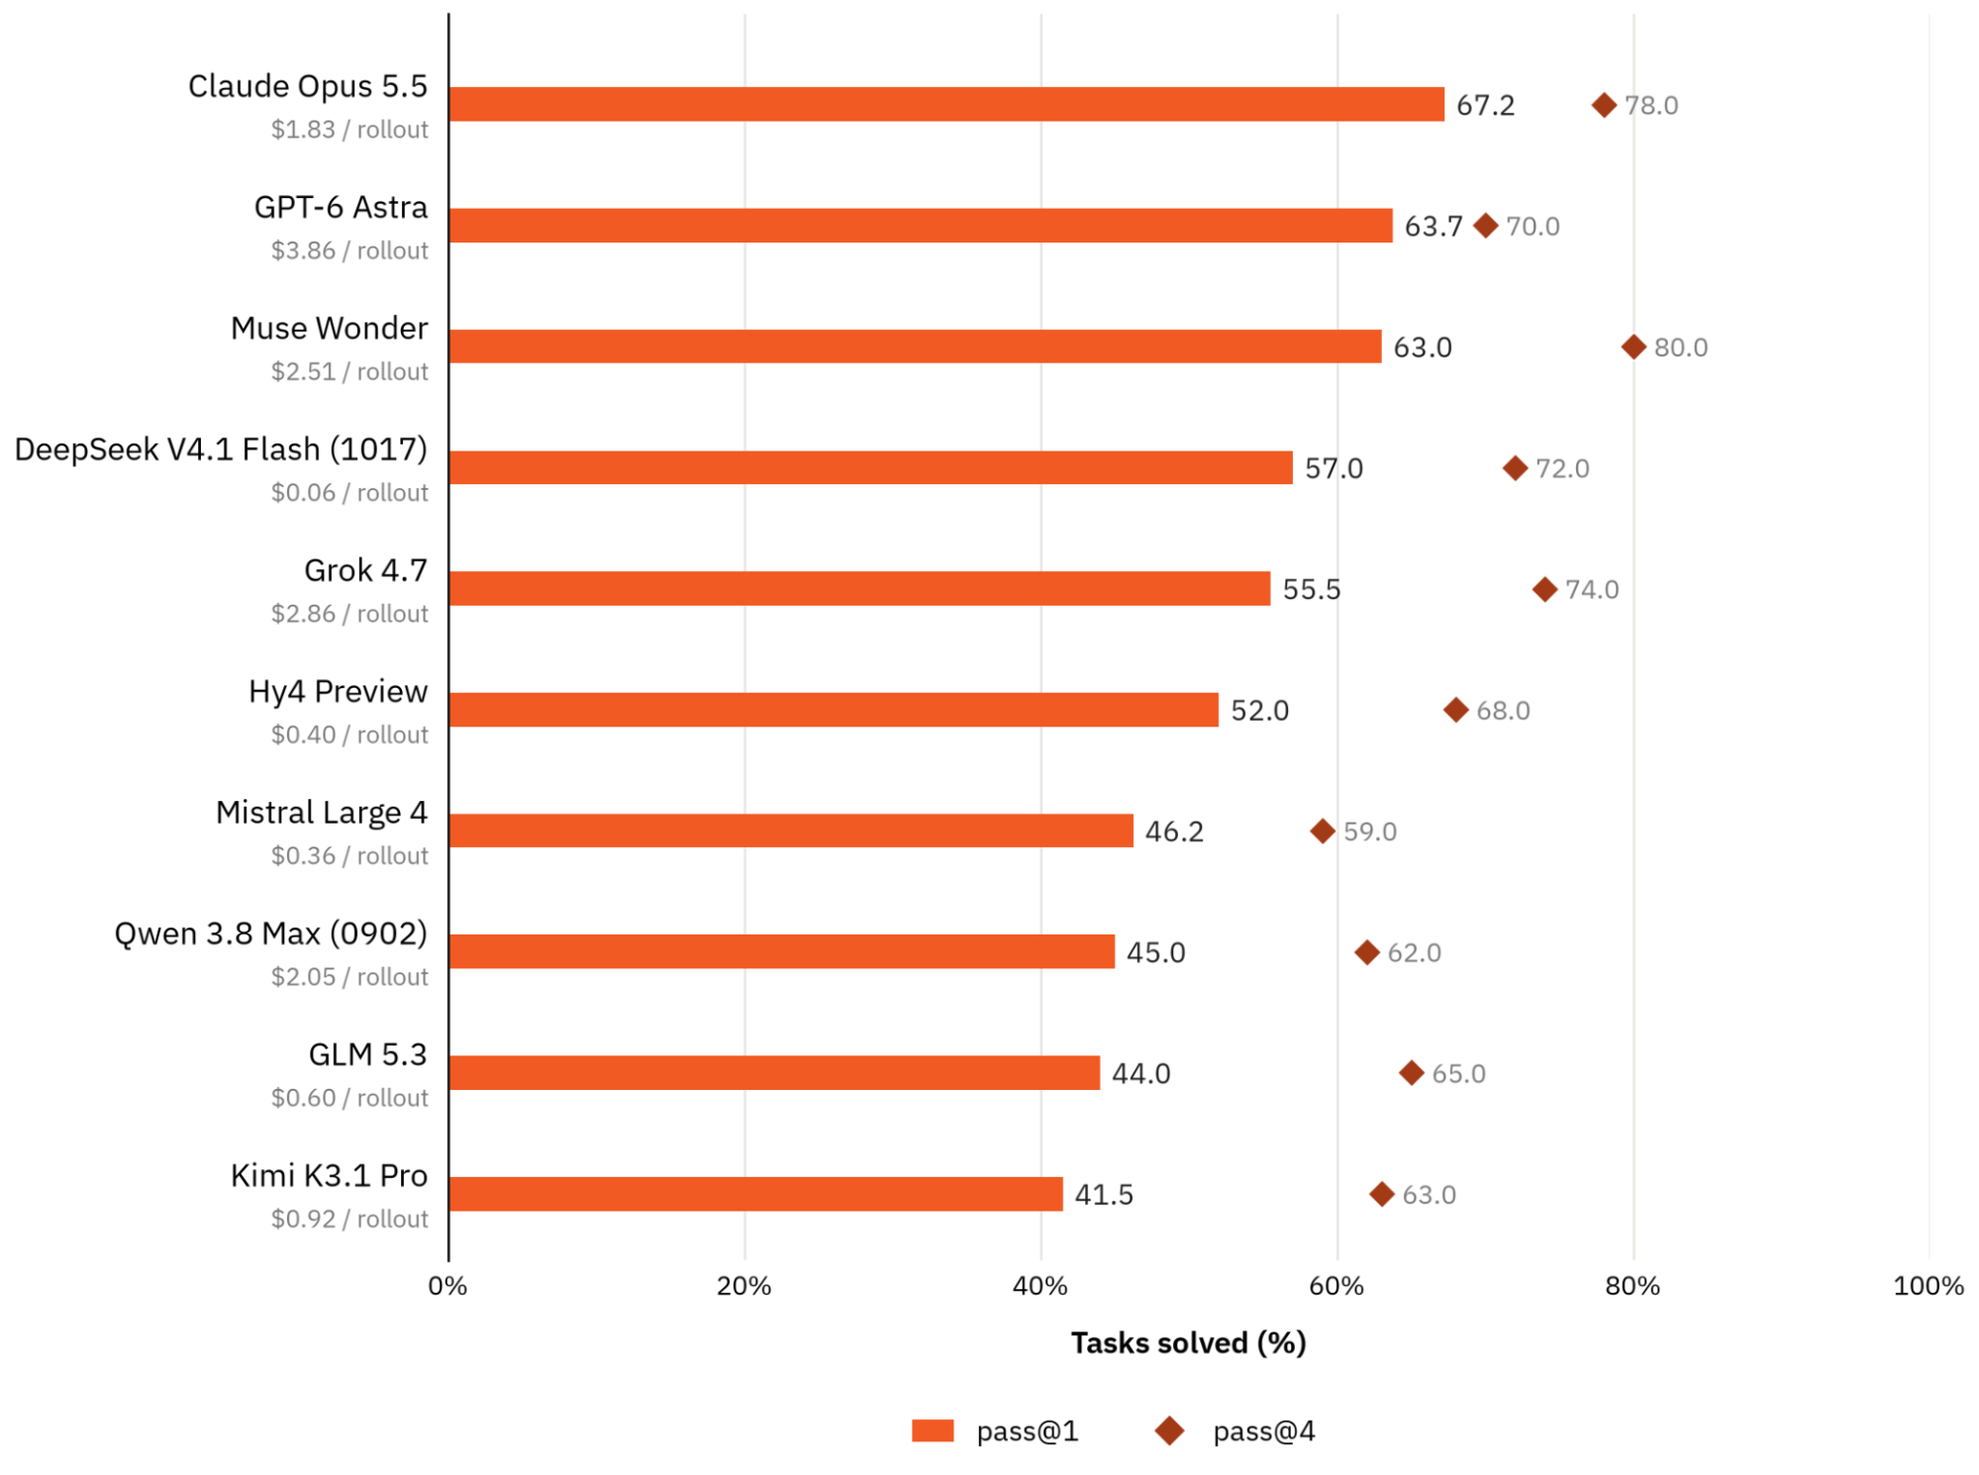
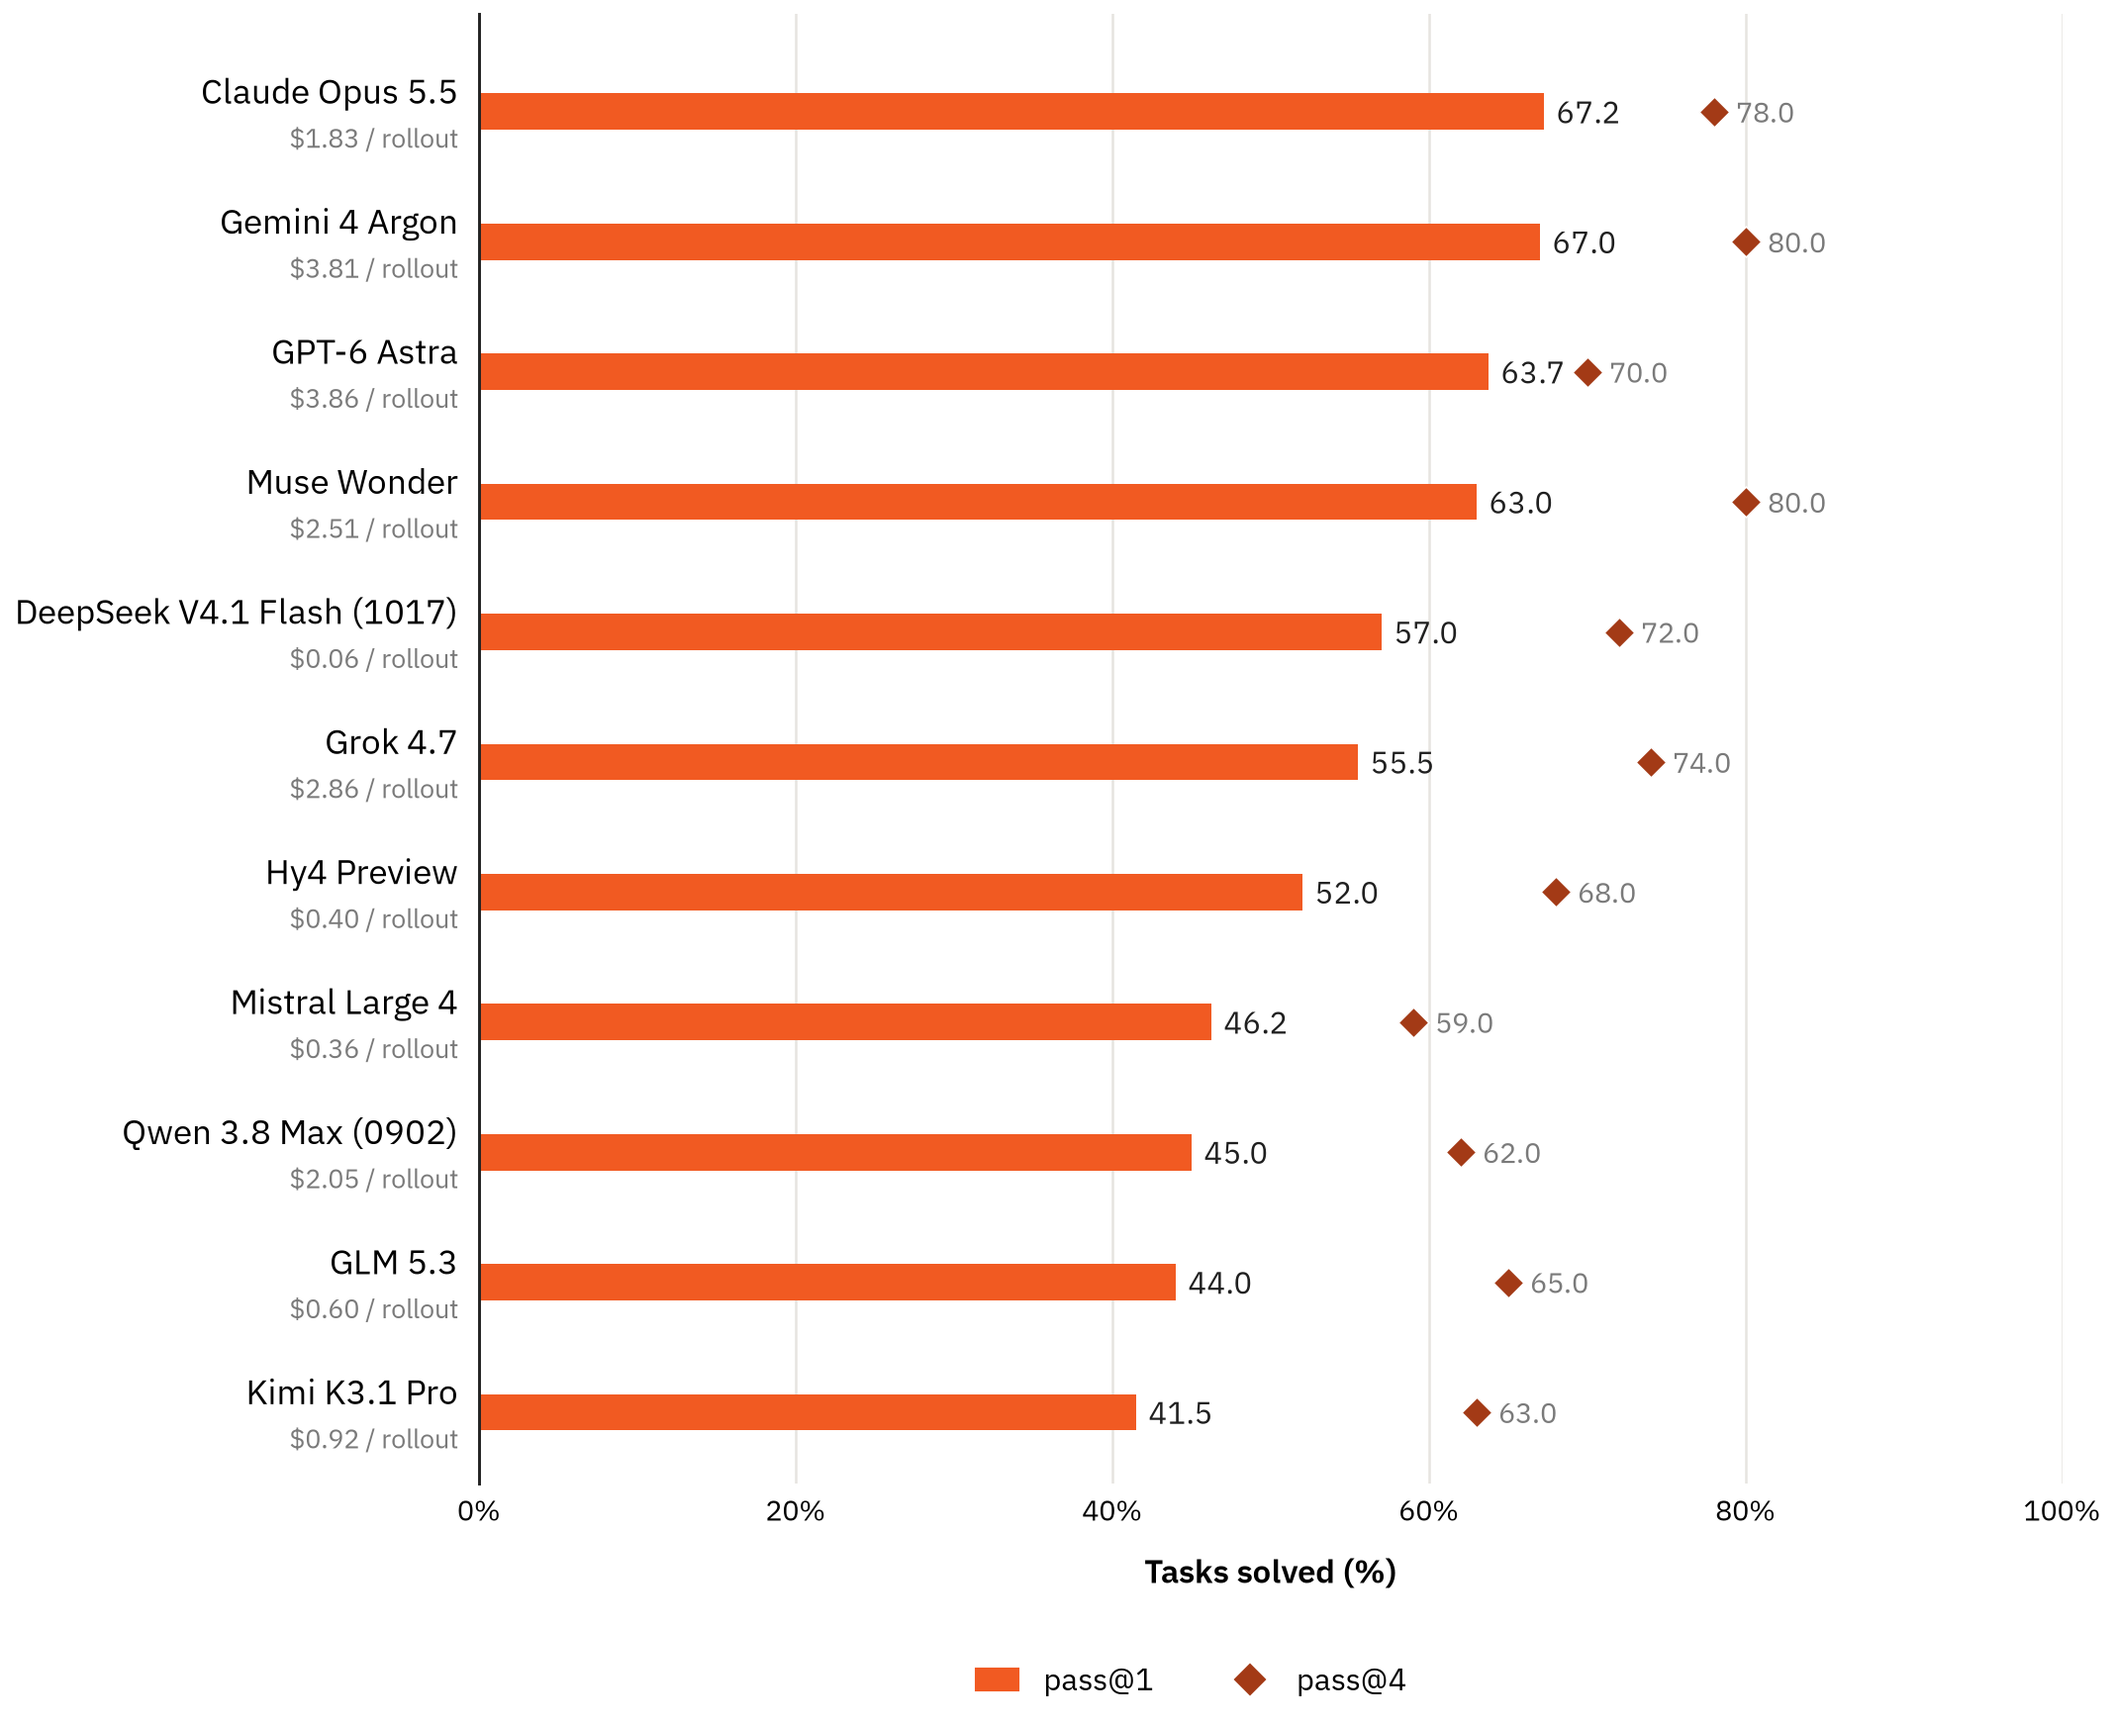
cwe-bench: add Gemini 4 Argon results (11 models), link the held-out set
Results chart and thumbnail regenerated with Gemini 4 Argon. Replaces the 'private set
coming soon' sentence with a link to the held-out set on cwebench.com and a contact address.

diff --git a/cwe-bench.md b/cwe-bench.md
@@ -16,7 +16,7 @@ authors:
 
 # CWE-bench v2: More coverage, quality, and transparency
 
-[CWE-bench](https://cwe-bench.com/) is designed to test the limits of frontier cyber capabilities. In our continued pursuit to push the horizon at [Collinear AI](https://collinear.ai/), CWE-bench v2 opens up a [public set of 100 tasks](https://huggingface.co/datasets/collinear-ai/cwe-bench) that anyone can run and evaluate their models on. The setup is the same as before. An agent gets a checkout of a real open-source repository and a short instruction, with the goal of finding and fixing a security weakness without breaking existing functionality. Scoring is fully programmatic, so results are deterministic and anyone can reproduce them without extra cost. All our programmatic checks have been curated with the help of LLM judge panels that shape them towards the direction of hardness and fairness. A private set is coming soon, so we can keep tracking progress on tasks no model has seen.
+[CWE-bench](https://cwe-bench.com/) is designed to test the limits of frontier cyber capabilities. In our continued pursuit to push the horizon at [Collinear AI](https://collinear.ai/), CWE-bench v2 opens up a [public set of 100 tasks](https://huggingface.co/datasets/collinear-ai/cwe-bench) that anyone can run and evaluate their models on. The setup is the same as before. An agent gets a checkout of a real open-source repository and a short instruction, with the goal of finding and fixing a security weakness without breaking existing functionality. Scoring is fully programmatic, so results are deterministic and anyone can reproduce them without extra cost. All our programmatic checks have been curated with the help of LLM judge panels that shape them towards the direction of hardness and fairness. We also maintain a [held-out set](https://www.cwebench.com), so that we can keep tracking progress on tasks no model has seen. To evaluate your model on the held-out set, contact [cyber@collinear.ai](mailto:cyber@collinear.ai).
 
 Our goal is to be exhaustive. A defender has to anticipate the ways an attacker could get in, and get it right every single time. These 100 tasks cover 91 different CWEs, spanning a wide range of vulnerability classes. A model that does well here has to understand the multiple weakness surfaces that a potential attacker can exploit. Recognising a familiar pattern is not enough.
 
@@ -33,9 +33,9 @@ Every task was also reviewed by hand. Open-sourcing the set is part of the same 
 
 ## Results
 
-![CWE-bench v2 results: pass@1 and pass@4 for 10 models, with cost per rollout](/blog/assets/cwe-bench/results.png)
+![CWE-bench v2 results: pass@1 and pass@4 for 11 models, with cost per rollout](/blog/assets/cwe-bench/results.png)
 
-Of the 10 models evaluated, Claude Opus 5.5 leads with 67.2% pass@1 and 78.0% pass@4. 95 tasks are solved by at least one model, an indication that the tasks are indeed solvable. However, even the leader fails 22% of the set on every attempt, so the long tail is far from solved. The public set, the grader and the harness are open. Run your model, and tell us where it stands.
+Of the 11 models evaluated, Claude Opus 5.5 leads with 67.2% pass@1 and 78.0% pass@4. 95 tasks are solved by at least one model, an indication that the tasks are indeed solvable. However, even the leader fails 22% of the set on every attempt, so the long tail is far from solved. The public set, the grader and the harness are open. Run your model, and tell us where it stands.
 
 The [CWE-bench leaderboard on the Hub](https://huggingface.co/datasets/collinear-ai/cwe-bench) updates as new results are submitted:
 
